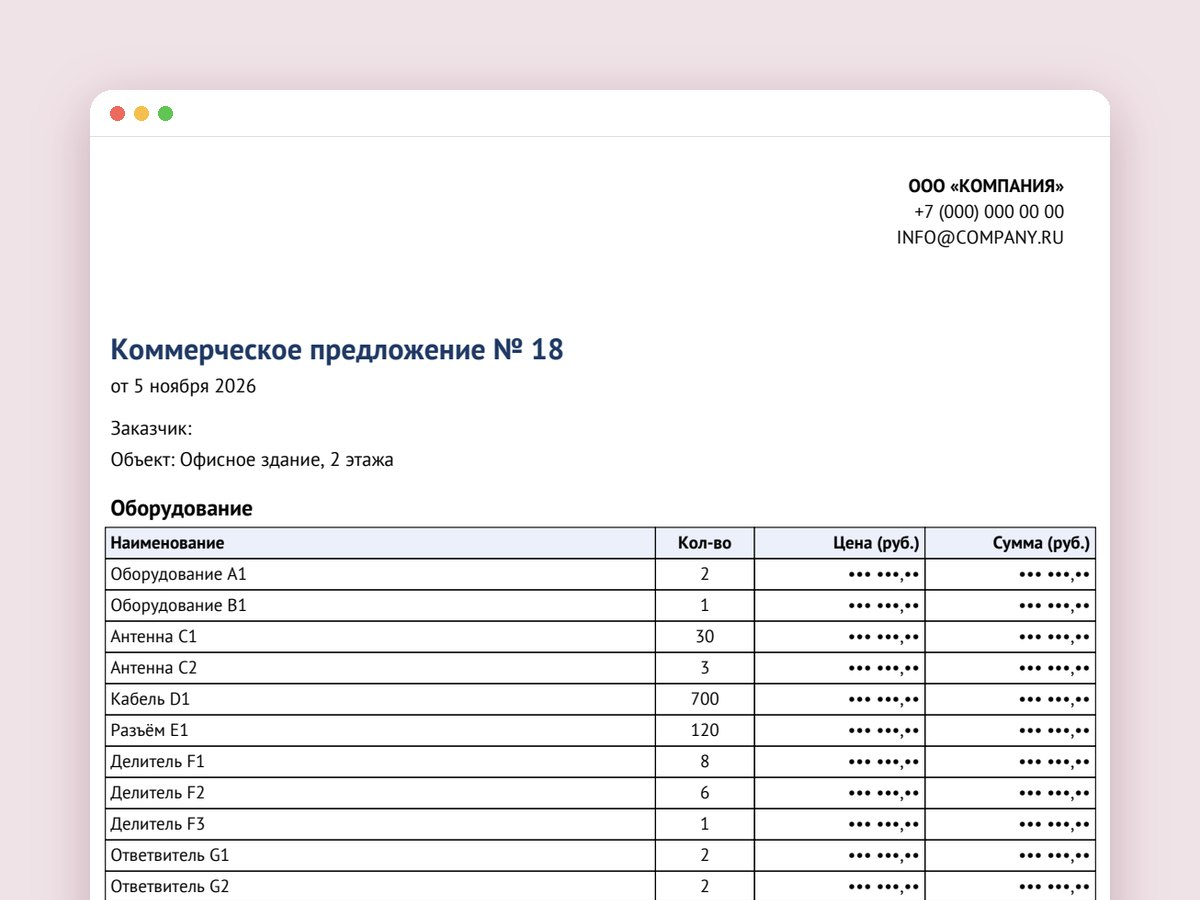
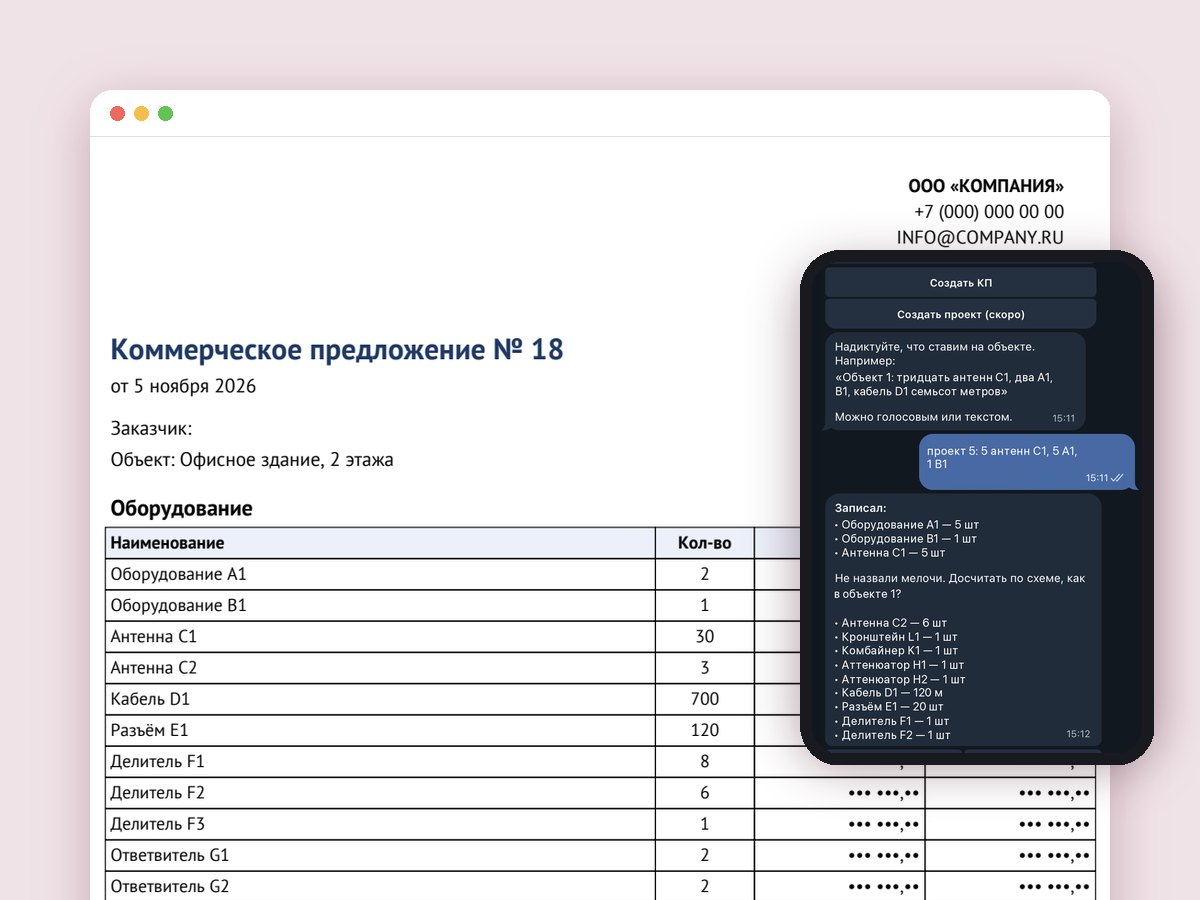
Cases: phone screenshots for KP, contracts, litbot; add AI English trainer

Changed region(s): [[0.6475, 0.2489, 0.9867, 0.8711]]

diff --git a/ainative.html b/ainative.html
@@ -82,7 +82,7 @@
 .kc-cta{margin-top:26px;display:flex;flex-wrap:wrap;align-items:center;gap:16px}
 .kc-cta p{margin:0;font-size:16px;opacity:.8}
 </style>
-    <div class="cs-wrap reveal"><div class="cs-row"><article class="kc cs"><img src="img/cover-kp.jpg" alt="" loading="lazy" width="1200" height="900"><div class="kc-b"><div class="kc-t"><span class="kc-who">клиент · nda</span><span class="term">кп и расчёты</span></div><h3>AI-ассистент для КП и смет</h3><p class="kc-pr">Каждый объект считает владелец, поэтому проект готов только на следующий день. Взять больше объектов компания не может.</p><p>Владелец надиктовывает объект, а ассистент присылает КП и спецификацию.</p><div class="kc-ba"><div class="was"><span>было</span>1–2 дня, и всё через владельца</div><div class="now"><span>стало</span>2 минуты, владелец только проверяет</div></div></div></article><article class="kc cs"><img src="img/cover-ads.jpg" alt="" loading="lazy" width="1200" height="900"><div class="kc-b"><div class="kc-t"><span class="kc-who">клиент · nda</span><span class="term">реклама</span></div><h3>AI-автоотчёт по рекламным кампаниям</h3><p class="kc-pr">На рекламу уходит почти 1 млн ₽ в месяц, а какие деньги сгорают, никто не знает.</p><p>Отчёт сам собирается из Директа и ВК, показывает утечки, а агент предлагает решения.</p><div class="kc-ba"><div class="was"><span>было</span>мусор ловили руками в Метрике</div><div class="now"><span>стало</span>нашли 900 тыс. ₽: ВК покупал клики вместо охвата</div></div></div></article><article class="kc cs"><img src="img/cover-contracts.jpg" alt="" loading="lazy" width="1200" height="900"><div class="kc-b"><div class="kc-t"><span class="kc-who">клиент · nda</span><span class="term">документы</span></div><h3>AI-ассистент для договоров с самозанятыми</h3><p class="kc-pr">На каждого исполнителя HR руками переносит паспорт и реквизиты, договор ждут 3–4 часа.</p><p>Исполнитель присылает фото документов, а AI сам проверяет данные и собирает договор.</p><div class="kc-ba"><div class="was"><span>было</span>3–4 часа на договор</div><div class="now"><span>стало</span>10 минут, остаётся нажать «на подпись»</div></div></div></article><article class="kc cs"><img src="img/cover-assistant.jpg" alt="" loading="lazy" width="1200" height="900"><div class="kc-b"><div class="kc-t"><span class="kc-who own">мой проект</span><span class="term">ai-ассистент</span></div><h3>Личный AI-ассистент</h3><p class="kc-pr">Договорённости с клиентами раскиданы по чатам и созвонам, и что кому обещала, приходится держать в голове.</p><p>Ассистент сам читает переписку и встречи, ведёт карточки клиентов и пишет в Telegram: кто что обещал и кто молчит.</p><div class="kc-ba"><div class="was"><span>было</span>обещания и встречи в голове</div><div class="now"><span>стало</span>сводка 4 раза в день, новый человек сразу в базе</div></div></div></article><article class="kc cs"><img src="img/cover-litbot.jpg" alt="" loading="lazy" width="1200" height="900"><div class="kc-b"><div class="kc-t"><span class="kc-who own">мой проект</span><span class="term">обучение</span></div><h3>Бот-ассистент учителя</h3><p class="kc-pr">Учитель сам рассылает задания и считает, кто что сделал.</p><p>Бот каждый день присылает задания и сам ведёт статистику, программу учитель меняет в админке.</p><div class="kc-ba"><div class="was"><span>было</span>рассылка и учёт руками</div><div class="now"><span>стало</span>учитель только смотрит итоги</div></div></div></article><article class="kc cs"><img src="img/cover-content.jpg" alt="" loading="lazy" width="1200" height="900"><div class="kc-b"><div class="kc-t"><span class="kc-who own">мой проект</span><span class="term">контент</span></div><h3>Контент-фабрика</h3><p class="kc-pr">На посты по одному выпуску подкаста уходил целый день.</p><p>Из одного выпуска получаются превью, главы и 7 постов в голосе автора.</p><a class="kc-go" href="content.html" target="_blank" rel="noopener">посмотреть вживую →</a><div class="kc-ba"><div class="was"><span>было</span>1 день на выпуск</div><div class="now"><span>стало</span>30 минут, 7 публикаций</div></div></div></article><article class="kc cs"><img src="img/cover-models.jpg" alt="" loading="lazy" width="1200" height="900"><div class="kc-b"><div class="kc-t"><span class="kc-who own">мой проект</span><span class="term">расчёты</span></div><h3>Хаб расчётных моделей</h3><p class="kc-pr">Каждое «а если поднять цену» приходилось пересчитывать в таблице заново.</p><p>9 моделей: юнит-экономика, окупаемость, воронки. Меняешь цифру и сразу видишь результат.</p><a class="kc-go" href="models-hub/" target="_blank" rel="noopener">посмотреть вживую →</a><div class="kc-ba"><div class="was"><span>было</span>пересчёт на каждый вопрос</div><div class="now"><span>стало</span>цену выбираешь по цифрам</div></div></div></article></div><div class="cs-nav"><button type="button" class="cs-btn" data-d="-1" aria-label="Назад">←</button><span class="mark">листай вбок</span><button type="button" class="cs-btn" data-d="1" aria-label="Вперёд">→</button></div></div>
+    <div class="cs-wrap reveal"><div class="cs-row"><article class="kc cs"><img src="img/cover-kp.jpg" alt="" loading="lazy" width="1200" height="900"><div class="kc-b"><div class="kc-t"><span class="kc-who">клиент · nda</span><span class="term">кп и расчёты</span></div><h3>AI-ассистент для КП и смет</h3><p class="kc-pr">Каждый объект считает владелец, поэтому проект готов только на следующий день. Взять больше объектов компания не может.</p><p>Владелец надиктовывает объект, а ассистент присылает КП и спецификацию.</p><div class="kc-ba"><div class="was"><span>было</span>1–2 дня, и всё через владельца</div><div class="now"><span>стало</span>2 минуты, владелец только проверяет</div></div></div></article><article class="kc cs"><img src="img/cover-ads.jpg" alt="" loading="lazy" width="1200" height="900"><div class="kc-b"><div class="kc-t"><span class="kc-who">клиент · nda</span><span class="term">реклама</span></div><h3>AI-автоотчёт по рекламным кампаниям</h3><p class="kc-pr">На рекламу уходит почти 1 млн ₽ в месяц, а какие деньги сгорают, никто не знает.</p><p>Отчёт сам собирается из Директа и ВК, показывает утечки, а агент предлагает решения.</p><div class="kc-ba"><div class="was"><span>было</span>мусор ловили руками в Метрике</div><div class="now"><span>стало</span>нашли 900 тыс. ₽: ВК покупал клики вместо охвата</div></div></div></article><article class="kc cs"><img src="img/cover-contracts.jpg" alt="" loading="lazy" width="1200" height="900"><div class="kc-b"><div class="kc-t"><span class="kc-who">клиент · nda</span><span class="term">документы</span></div><h3>AI-ассистент для договоров с самозанятыми</h3><p class="kc-pr">На каждого исполнителя HR руками переносит паспорт и реквизиты, договор ждут 3–4 часа.</p><p>Исполнитель присылает фото документов, а AI сам проверяет данные и собирает договор.</p><div class="kc-ba"><div class="was"><span>было</span>3–4 часа на договор</div><div class="now"><span>стало</span>10 минут, остаётся нажать «на подпись»</div></div></div></article><article class="kc cs"><img src="img/cover-assistant.jpg" alt="" loading="lazy" width="1200" height="900"><div class="kc-b"><div class="kc-t"><span class="kc-who own">мой проект</span><span class="term">ai-ассистент</span></div><h3>Личный AI-ассистент</h3><p class="kc-pr">Договорённости с клиентами раскиданы по чатам и созвонам, и что кому обещала, приходится держать в голове.</p><p>Ассистент сам читает переписку и встречи, ведёт карточки клиентов и пишет в Telegram: кто что обещал и кто молчит.</p><div class="kc-ba"><div class="was"><span>было</span>обещания и встречи в голове</div><div class="now"><span>стало</span>сводка 4 раза в день, новый человек сразу в базе</div></div></div></article><article class="kc cs"><img src="img/cover-english.jpg" alt="" loading="lazy" width="1200" height="900"><div class="kc-b"><div class="kc-t"><span class="kc-who own">мой проект</span><span class="term">обучение</span></div><h3>AI-тренер английского</h3><p class="kc-pr">После урока новые слова и правила забываются, а повторять самой некогда.</p><p>Кидаешь скрин урока, бот за минуту разбирает правило и кладёт новые слова в колоду. Несколько раз в день присылает мини-упражнения на слабые места.</p><div class="kc-ba"><div class="was"><span>было</span>конспект урока руками</div><div class="now"><span>стало</span>разбор за минуту, повтор сам по расписанию</div></div></div></article><article class="kc cs"><img src="img/cover-litbot.jpg" alt="" loading="lazy" width="1200" height="900"><div class="kc-b"><div class="kc-t"><span class="kc-who own">мой проект</span><span class="term">обучение</span></div><h3>Бот-ассистент учителя</h3><p class="kc-pr">Учитель сам рассылает задания и считает, кто что сделал.</p><p>Бот каждый день присылает задания и сам ведёт статистику, программу учитель меняет в админке.</p><div class="kc-ba"><div class="was"><span>было</span>рассылка и учёт руками</div><div class="now"><span>стало</span>учитель только смотрит итоги</div></div></div></article><article class="kc cs"><img src="img/cover-content.jpg" alt="" loading="lazy" width="1200" height="900"><div class="kc-b"><div class="kc-t"><span class="kc-who own">мой проект</span><span class="term">контент</span></div><h3>Контент-фабрика</h3><p class="kc-pr">На посты по одному выпуску подкаста уходил целый день.</p><p>Из одного выпуска получаются превью, главы и 7 постов в голосе автора.</p><a class="kc-go" href="content.html" target="_blank" rel="noopener">посмотреть вживую →</a><div class="kc-ba"><div class="was"><span>было</span>1 день на выпуск</div><div class="now"><span>стало</span>30 минут, 7 публикаций</div></div></div></article><article class="kc cs"><img src="img/cover-models.jpg" alt="" loading="lazy" width="1200" height="900"><div class="kc-b"><div class="kc-t"><span class="kc-who own">мой проект</span><span class="term">расчёты</span></div><h3>Хаб расчётных моделей</h3><p class="kc-pr">Каждое «а если поднять цену» приходилось пересчитывать в таблице заново.</p><p>9 моделей: юнит-экономика, окупаемость, воронки. Меняешь цифру и сразу видишь результат.</p><a class="kc-go" href="models-hub/" target="_blank" rel="noopener">посмотреть вживую →</a><div class="kc-ba"><div class="was"><span>было</span>пересчёт на каждый вопрос</div><div class="now"><span>стало</span>цену выбираешь по цифрам</div></div></div></article></div><div class="cs-nav"><button type="button" class="cs-btn" data-d="-1" aria-label="Назад">←</button><span class="mark">листай вбок</span><button type="button" class="cs-btn" data-d="1" aria-label="Вперёд">→</button></div></div>
     <div class="kc-cta reveal"><p>Похожая задача у вас?</p><a class="btn" href="https://t.me/kvazarchIk?text=%D0%9F%D1%80%D0%B8%D0%B2%D0%B5%D1%82%21%20%D0%A5%D0%BE%D1%87%D1%83%20%D0%BF%D0%BE%D1%81%D0%BC%D0%BE%D1%82%D1%80%D0%B5%D1%82%D1%8C%20%D0%BA%D0%B5%D0%B9%D1%81%D1%8B" target="_blank" rel="noopener">покажу кейсы на созвоне</a></div>
   </div>
 </section>

diff --git a/_offers/cases.py b/_offers/cases.py
@@ -36,7 +36,10 @@ COVERS = [
 ]
 
 # телефон поверх окна: второй экран того же кейса (файл, кроп исходника)
-PHONES = {"ads": ("report-bot.png", (0, 10, 754, 1190))}
+PHONES = {"ads": ("report-bot.png", (0, 10, 754, 1190)),
+          "kp": ("kp-chat.png", (0, 120, 752, 1240)),
+          "contracts": ("contracts-chat.png", (0, 100, 770, 1480)),
+          "litbot": ("litbot-chat.jpg", (0, 90, 780, 1480))}
 PH_W, PH_X, PH_Y = 330, 800, 250
 
 
@@ -61,7 +64,8 @@ def phone(canvas, fname, crop, w=PH_W, x=PH_X, y=PH_Y):
 
 # обложка только из телефонов (кейсы, где весь продукт живёт в Telegram)
 DUOS = {"assistant": [("assistant-1.png", (0, 190, 662, 1432), 420, 140, 60),
-                      ("assistant-2.png", (0, 660, 736, 1470), 440, 610, 300)]}
+                      ("assistant-2.png", (0, 660, 736, 1470), 440, 610, 300)],
+        "english": [("english.jpg", (0, 100, 786, 1470), 470, 365, 60)]}
 
 
 def duo(name):
@@ -115,6 +119,10 @@ CASES = [  # (обложка, кто, тег, продукт, проблема, 
      "Договорённости с клиентами раскиданы по чатам и созвонам, и что кому обещала, приходится держать в голове.",
      "Ассистент сам читает переписку и встречи, ведёт карточки клиентов и пишет в Telegram: кто что обещал и кто молчит.",
      "обещания и встречи в голове", "сводка 4 раза в день, новый человек сразу в базе", ""),
+    ("english", "мой проект", "обучение", "AI-тренер английского",
+     "После урока новые слова и правила забываются, а повторять самой некогда.",
+     "Кидаешь скрин урока, бот за минуту разбирает правило и кладёт новые слова в колоду. Несколько раз в день присылает мини-упражнения на слабые места.",
+     "конспект урока руками", "разбор за минуту, повтор сам по расписанию", ""),
     ("litbot", "мой проект", "обучение", "Бот-ассистент учителя",
      "Учитель сам рассылает задания и считает, кто что сделал.",
      "Бот каждый день присылает задания и сам ведёт статистику, программу учитель меняет в админке.",
